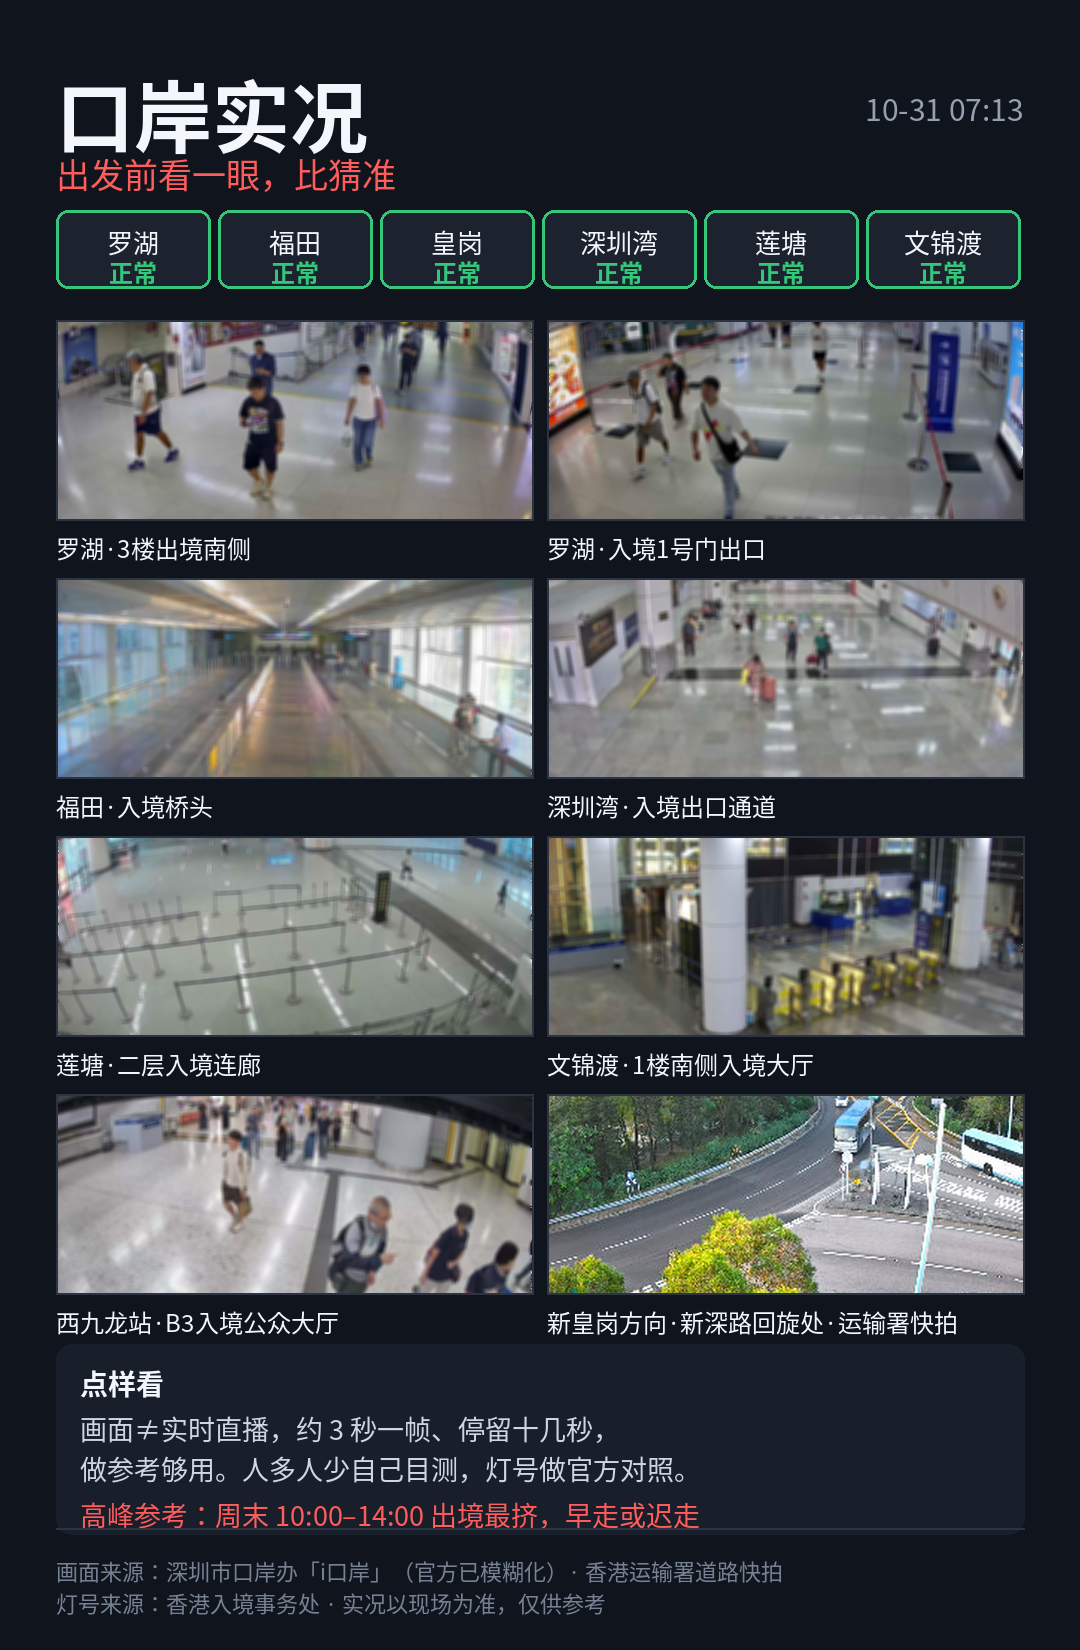
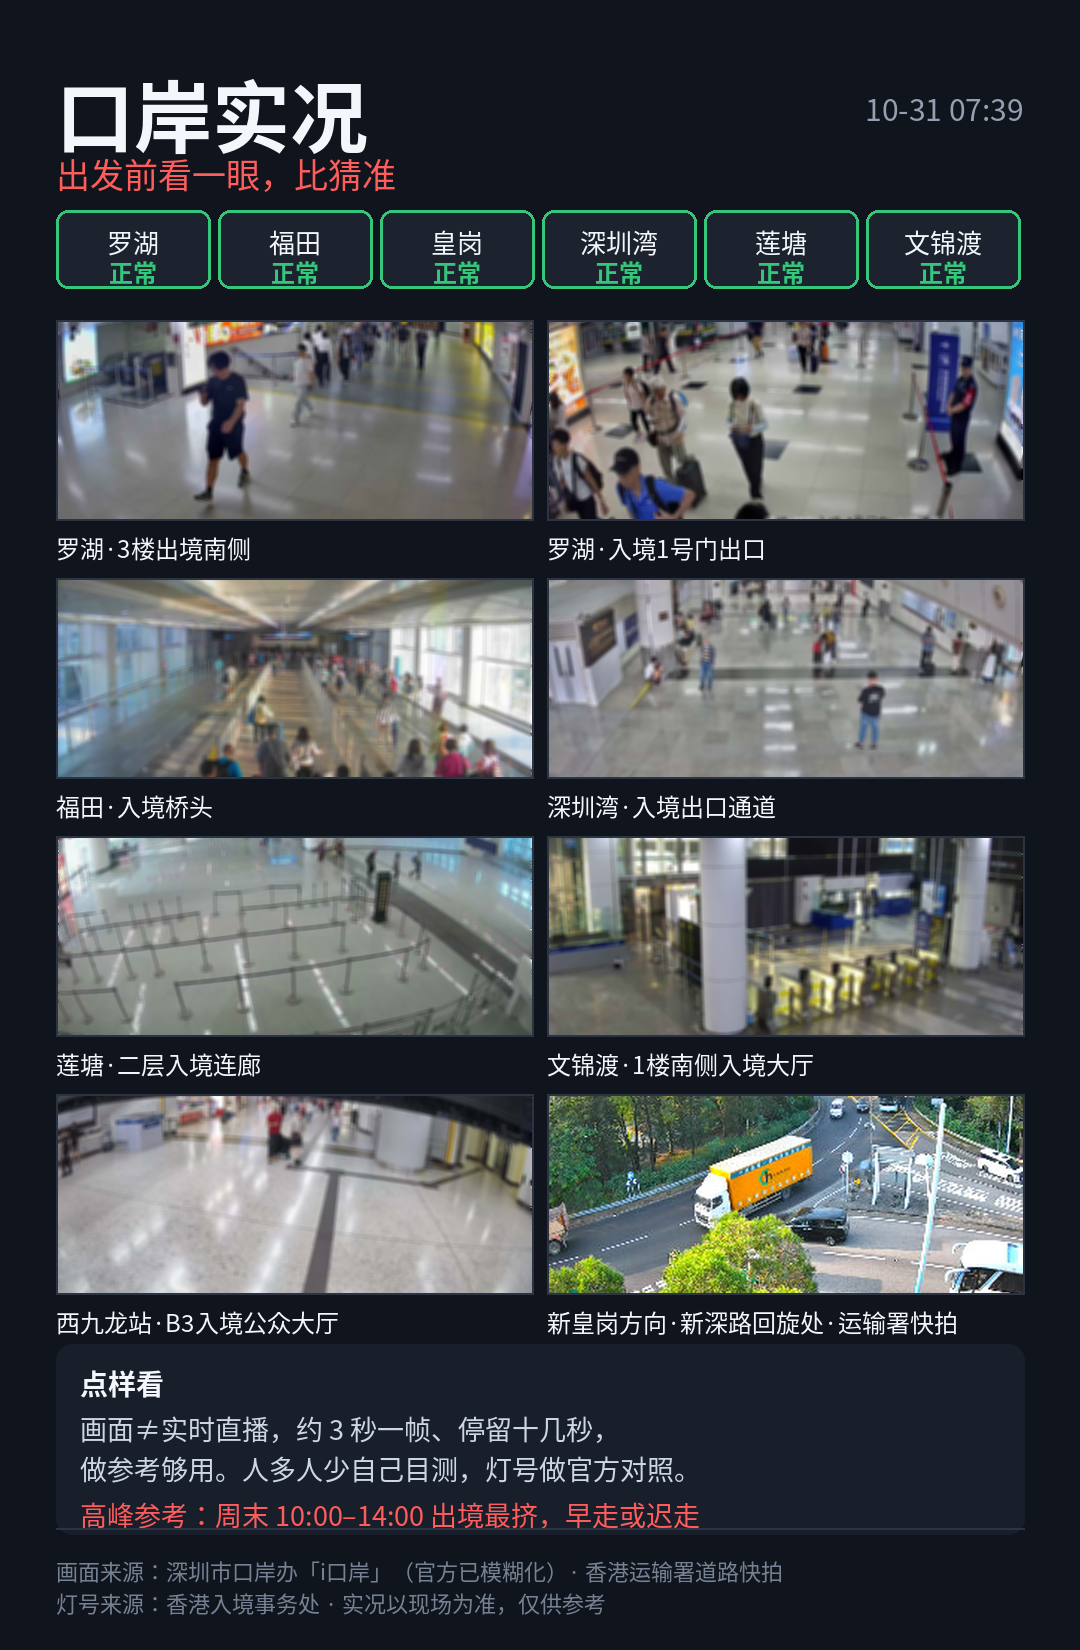
sc daily: 2026-10-30 [skip ci]

diff --git a/output/sc_daily_20261031/發佈清單.md b/output/sc_daily_20261031/發佈清單.md
@@ -2,11 +2,11 @@
 
 | 图 | 内容 | 文件 | 建议发布 |
 |---|---|---|---|
-| 天气卡 | 天气卡 | 01_天气.png | 07:30 |
-| 口岸实况 | 口岸实况 | 02_口岸实况.png | 07:30 |
+| 口岸实况（只给搜索） | 口岸实况（只给搜索） | 01_口岸实况.png | 时间随意 |
 
-- 两张卡互相独立，可以分开发，也可以同一天发；由你决定。
+- 早上主帖＝card_sc_20261031.png（另一条 workflow 出，会另外推你）；本目录只出口岸实况。
+- 口岸实况帖＝只给搜索：标题关键词照抄，发布时间随意，不用赶 07:30。
 - `文案.txt` 一篇一帖，直接复制。
 - 发帖永远手动，本脚本只出图＋文案。
 
-生成时间：2026-10-31 07:13
+生成时间：2026-10-31 07:39
